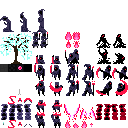
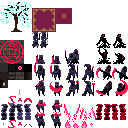
library thing

Changed region(s): [[0.0, 0.0, 0.5625, 0.5], [0.0, 0.5625, 0.25, 0.6875], [0.5, 0.25, 0.625, 0.375]]

diff --git a/tools/tmxcvt/tmxcvt.js b/tools/tmxcvt/tmxcvt.js
@@ -17,6 +17,9 @@ const xml = new XMLParser({
 const layer = xml.map.layer[0];
 const map_data = layer.data["#text"].split(",").map((x) => parseInt(x).toString(16));
 
+const width = layer["@_width"];
+const height = layer["@_height"];
+
 const out = [];
 
 out.push(xml.map.objectgroup.length);
@@ -27,13 +30,11 @@ for (const group of xml.map.objectgroup) {
   
   for (const object of group.object) {
     out.push(object["@_name"]);
-    out.push(object["@_x"]);
-    out.push(object["@_y"]);
+    out.push(object["@_x"] / xml.map['@_tilewidth']);
+    out.push(height - object["@_y"] / xml.map['@_tileheight']);
   }
 }
 
-const width = parseInt(layer["@_width"]);
-const height = parseInt(layer["@_height"]);
 out.push(width);
 out.push(height);
 

diff --git a/src/lib/map.c b/src/lib/map.c
@@ -45,12 +45,26 @@ struct { int name; tile_t tile; } tiledata[] = {
     }
   },
   {
-    .name = 132,
+    .name = 146,
     .tile = {
-      .tx = 3, .ty = 7, .solid = 1, .num_block = 1,
-      .block = { { .tx = 3, .ty = 7 } }
+      .tx = 0, .ty = 6, .solid = 1, .num_block = 2,
+      .block = { { .tx = 1, .ty = 6 }, { .tx = 1, .ty = 6 } }
     }
   },
+  {
+    .name = 148,
+    .tile = {
+      .tx = 3, .ty = 6, .solid = 1, .num_block = 2,
+      .block = { { .tx = 3, .ty = 6 }, { .tx = 3, .ty = 6 } }
+    }
+  },
+  {
+    .name = 161,
+    .tile = {
+      .tx = 3, .ty = 6, .solid = 1, .num_block = 2,
+      .block = { { .tx = 3, .ty = 6 }, { .tx = 0, .ty = 5 } }
+    }
+  }
 };
 
 static tile_t tile_get(int name);
@@ -110,8 +124,8 @@ group_t group_load(FILE *fp, const char *path)
       LOG_ERROR("%s: malformed landmark data", path);
     }
     
-    group.landmarks[i].position.x = x / 8.0;
-    group.landmarks[i].position.y = y / 8.0;
+    group.landmarks[i].position.x = x;
+    group.landmarks[i].position.y = y;
     group.landmarks[i].next = NULL;
     
     if (i > 0) {

diff --git a/src/client/scene1.c b/src/client/scene1.c
@@ -28,7 +28,6 @@ static void scene1_load()
 
   game_t *gs = client_get_game();
   game_spawn_group(gs, "main");
-  game_spawn_group(gs, "fire_test");
 }
 
 static void scene1_update()
@@ -60,7 +59,6 @@ static void reset_handle(gui_node_t node, gui_event_t event)
   case GUI_EV_CLICK:
     game_reset(gs);
     game_spawn_group(gs, "main");
-    game_spawn_group(gs, "fire_test");
     break;
   }
   
@@ -68,7 +66,7 @@ static void reset_handle(gui_node_t node, gui_event_t event)
 }
 
 client_scene_t client_scene1 = {
-  .map = "assets/map/1.map",
+  .map = "assets/map/library.map",
   .load = scene1_load,
   .update = scene1_update,
   .destroy = scene1_destroy
